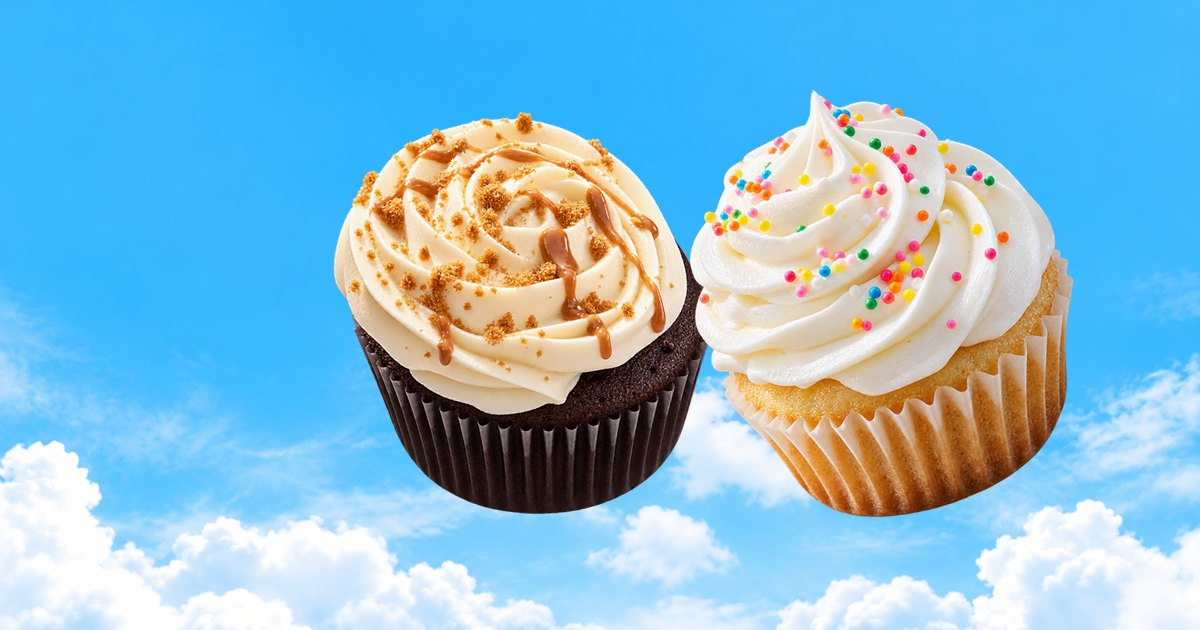
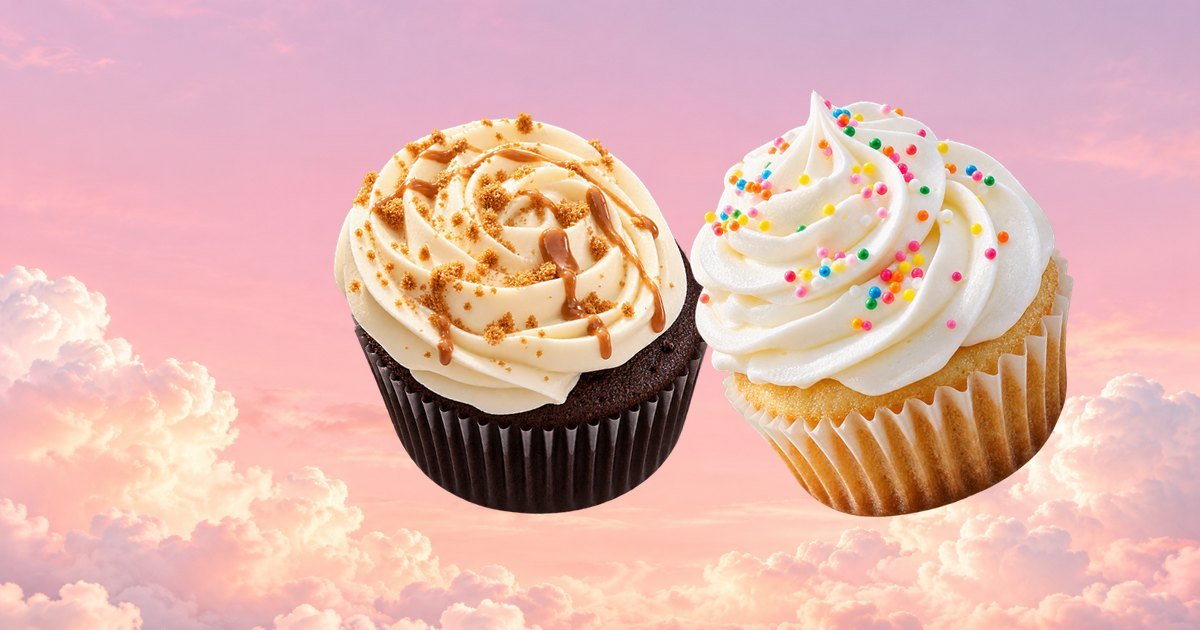
More pink: blush skies, pink treat cards, footer and phone menu
- Hero and Our Story use the new blush cloudscape images
- Treat cards, footer and phone menu panel move to the pink palette
- Navigation text turns dark over the blush hero (white failed contrast)
- Social share image regenerated on the blush sky

diff --git a/components/Navigation.tsx b/components/Navigation.tsx
@@ -14,7 +14,7 @@ export function NavLogo() {
       data-framer-name="Logo"
       data-framer-component-type="RichTextContainer"
       {...a}
-      style={{ ["--extracted-r6o4lv" as string]: T.white, ...a.style }}
+      style={{ ["--extracted-r6o4lv" as string]: T.navFg, ...a.style }}
     >
       <p
         dir="auto"
@@ -23,7 +23,7 @@ export function NavLogo() {
           ["--font-selector" as string]: "SW50ZXItQm9sZA==",
           ["--framer-font-size" as string]: "30px",
           ["--framer-font-weight" as string]: "700",
-          ["--framer-text-color" as string]: `var(--extracted-r6o4lv, ${T.white})`,
+          ["--framer-text-color" as string]: `var(--extracted-r6o4lv, ${T.navFg})`,
         }}
       >
         <a className="framer-text framer-styles-preset-1tau0gs" data-styles-preset="iURMpxrm8" href="#top" data-framer-page-link-current="true">
@@ -48,8 +48,8 @@ export function NavLinks({ phone = false }: { phone?: boolean }) {
             data-framer-component-type="RichTextContainer"
             {...a}
             style={{
-              ["--extracted-r6o4lv" as string]: T.white,
-              ...(phone ? { ["--extracted-1eung3n" as string]: T.white } : {}),
+              ["--extracted-r6o4lv" as string]: T.navFg,
+              ...(phone ? { ["--extracted-1eung3n" as string]: T.navFg } : {}),
               ...a.style,
             }}
           >
@@ -59,7 +59,7 @@ export function NavLinks({ phone = false }: { phone?: boolean }) {
               dir="auto"
               style={{
                 ["--framer-text-alignment" as string]: "start",
-                ["--framer-text-color" as string]: `var(${phone ? "--extracted-1eung3n" : "--extracted-r6o4lv"}, ${T.white})`,
+                ["--framer-text-color" as string]: `var(${phone ? "--extracted-1eung3n" : "--extracted-r6o4lv"}, ${T.navFg})`,
               }}
             >
               <a className="framer-text framer-styles-preset-1tau0gs" data-styles-preset="iURMpxrm8" href={link.href}>

diff --git a/app/globals.css b/app/globals.css
@@ -34,6 +34,43 @@ body {
   }
 }
 
+/* Treat cards: a pink family (rose, lilac pink, cream, blush) instead of peach/green/yellow/pink. */
+body {
+  --token-af8e93b1-3edd-4439-bf50-beaa8c84f942: #fcdce4;
+  --token-f5d7e01b-e6cf-453c-a99f-06fc1cfd1e7f: #f9dff1;
+  --token-3883c825-3143-43b7-8fb7-ede714babf06: #fdebdc;
+  --token-1edbee8f-89c5-41ae-a387-26f1aacb24ea: #ffd3e3;
+}
+
+/* Footer sits on blush too. */
+footer.framer-eli3k {
+  background-color: var(--cb-pink-soft) !important;
+}
+
+/* Navigation over the blush hero: dark text (white failed contrast on pink).
+   The open phone menu is a pink panel with white text and a white CTA. */
+.framer-8pKTs {
+  --cb-nav-fg: #0c0e0f;
+}
+.framer-8pKTs[data-open] {
+  --cb-nav-fg: #fff;
+}
+/* Nav links use Framer's white link preset; point it at the nav colour. */
+.framer-r0wxg.framer-8pKTs .framer-styles-preset-1tau0gs {
+  --framer-link-text-color: var(--cb-nav-fg);
+  --framer-link-hover-text-color: var(--cb-pink);
+}
+.framer-r0wxg.framer-8pKTs[data-open] .framer-styles-preset-1tau0gs {
+  --framer-link-hover-text-color: #ffffffb3;
+}
+.framer-8pKTs[data-open] .framer-nloonb-container .framer-FN12i {
+  background-color: #fff !important;
+  --border-color: #fff !important;
+}
+.framer-8pKTs[data-open] .framer-nloonb-container :is(.framer-1lc5t0j, .framer-e6ksm9) {
+  --extracted-r6o4lv: var(--cb-pink) !important;
+}
+
 ::selection {
   background: var(--cb-pink);
   color: #fff;

diff --git a/components/PhoneNavigation.tsx b/components/PhoneNavigation.tsx
@@ -39,7 +39,7 @@ export function PhoneNavigation({ logo, links, cta }: { logo: ReactNode; links: 
   }, [open]);
 
   const line = (rotate: number): React.CSSProperties => ({
-    backgroundColor: T.white,
+    backgroundColor: T.navFg,
     borderRadius: 10,
     transform: open ? `rotate(${rotate}deg)` : "none",
     transition: "transform 0.35s cubic-bezier(0.44, 0, 0.56, 1), top 0.35s cubic-bezier(0.44, 0, 0.56, 1)",
@@ -53,7 +53,7 @@ export function PhoneNavigation({ logo, links, cta }: { logo: ReactNode; links: 
       data-framer-name={open ? "Phone Open" : "Phone"}
       data-open={open || undefined}
       style={{
-        backgroundColor: open ? T.inkFixed : "rgba(0, 0, 0, 0)",
+        backgroundColor: open ? T.pink : "rgba(0, 0, 0, 0)",
         width: "100%",
         transition: "background-color 0.35s cubic-bezier(0.44, 0, 0.56, 1)",
       }}

diff --git a/content/site.ts b/content/site.ts
@@ -63,7 +63,7 @@ export const site = {
     text: "Discover cupcakes, brownies, doughnuts and custom cakes in Bulawayo. From a little treat for yourself to something special for a celebration, Cozy Bites brings comfort and sweetness to every occasion.",
     cta: { label: "Explore Our Treats", href: `#${SECTION_IDS.treats}` },
     background: {
-      base: "/images/hero-sky",
+      base: "/images/hero-sky-blush",
       widths: [512, 1024, 1672],
       width: 1672,
       height: 941,
@@ -162,7 +162,7 @@ export const site = {
     cta: { label: "Discover Our Baking", href: `#${SECTION_IDS.baking}` },
     watermark: "cozy",
     background: {
-      base: "/images/story-sky",
+      base: "/images/story-sky-blush",
       widths: [512, 847, 1122],
       width: 1122,
       height: 1402,

diff --git a/components/framer/tokens.ts b/components/framer/tokens.ts
@@ -11,6 +11,8 @@ export const T = {
   // Cozy Bites brand pink (defined in app/globals.css)
   pink: "var(--cb-pink)",
   onPink: "#fff",
+  /** Navigation text: dark over the blush hero, white inside the open phone menu. */
+  navFg: "var(--cb-nav-fg)",
 } as const;
 
 // Framer breakpoint visibility classes (see the top of app/framer.css).
